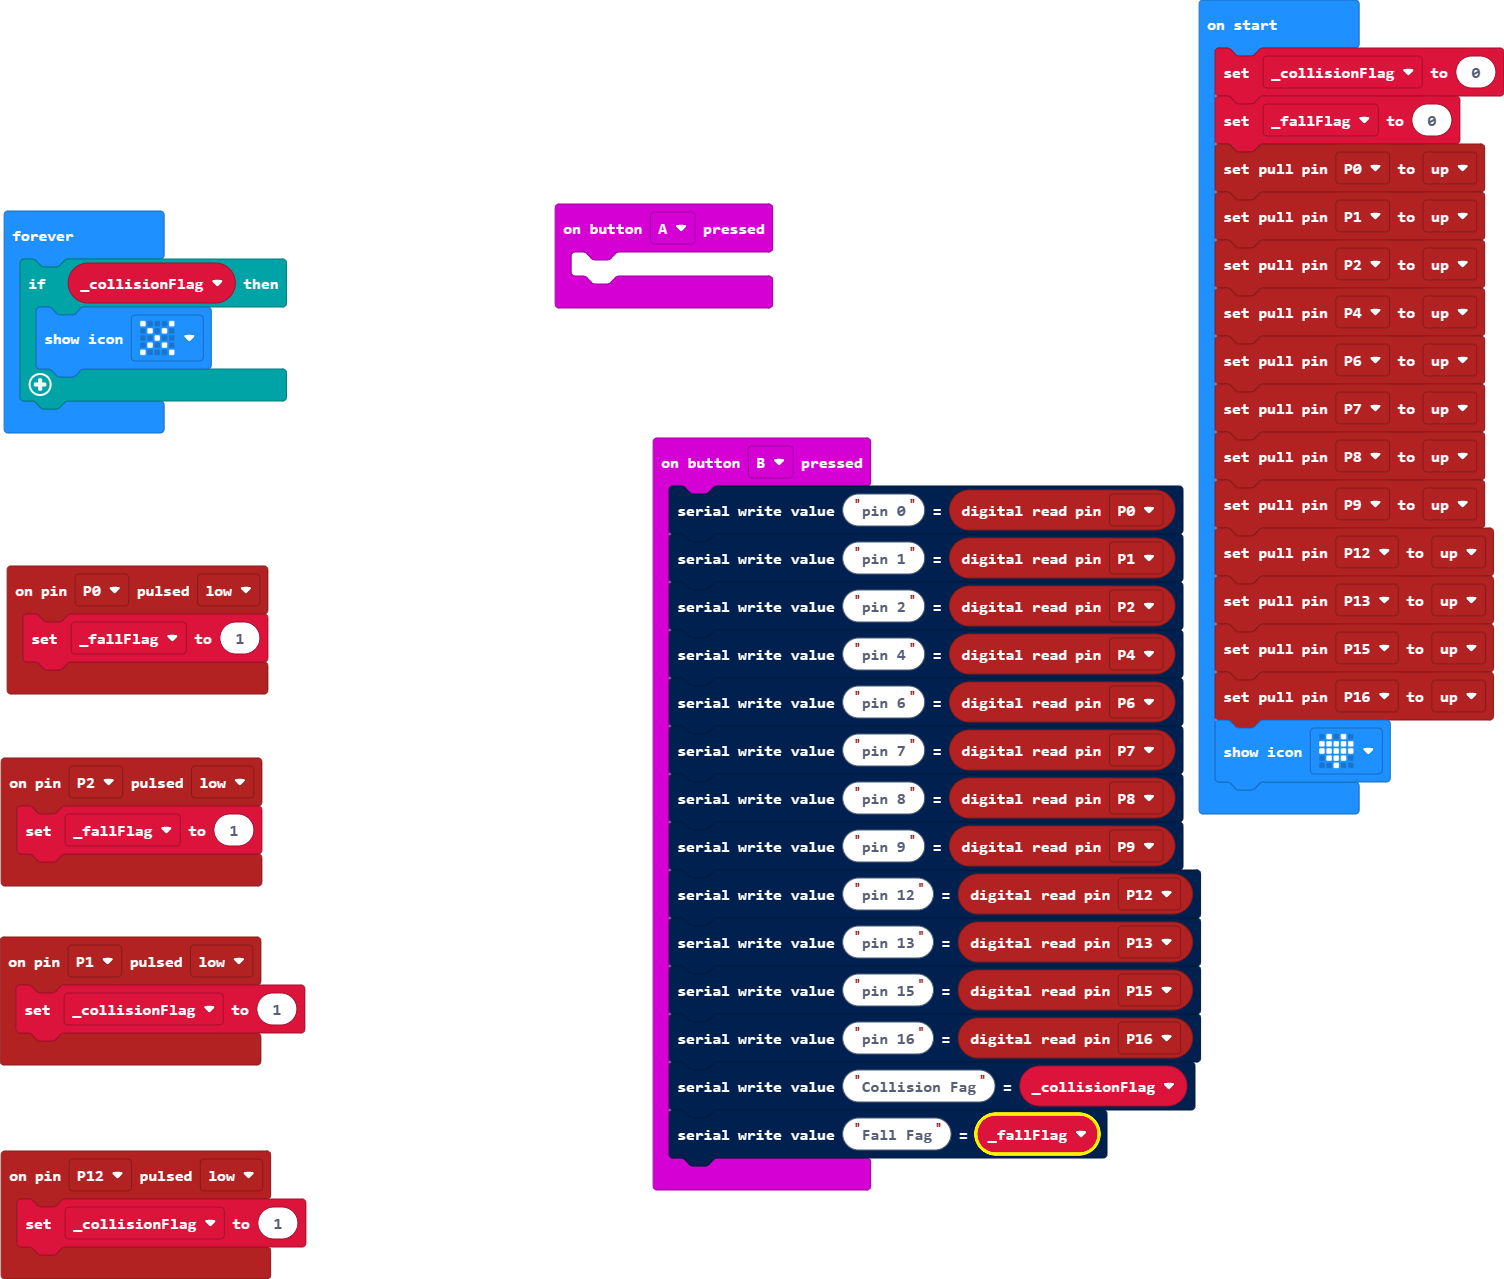
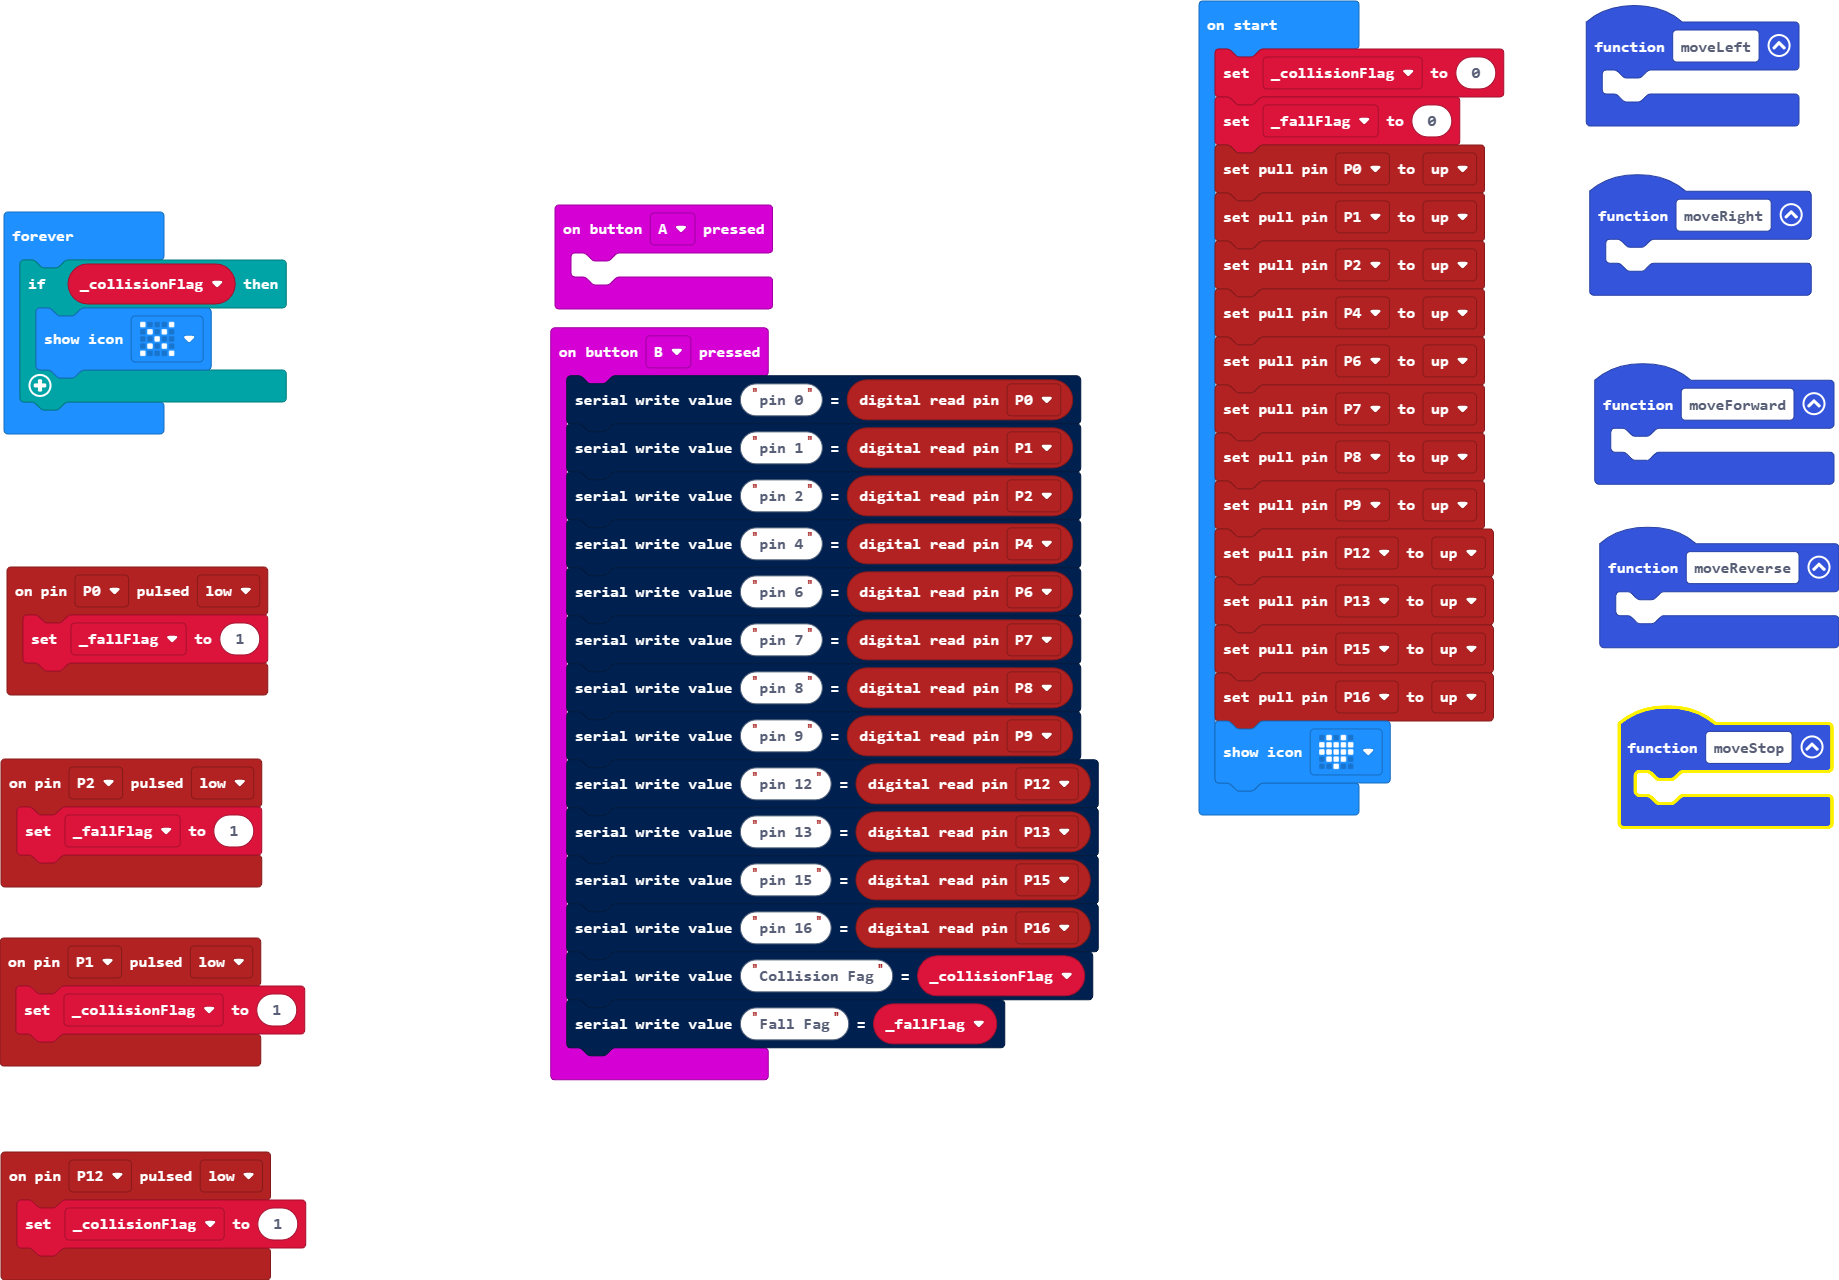
Update main.blocks, main.ts

diff --git a/main.ts b/main.ts
@@ -1,3 +1,12 @@
+function moveReverse () {
+	
+}
+function moveRight () {
+	
+}
+function moveForward () {
+	
+}
 input.onButtonPressed(Button.A, function () {
 	
 })
@@ -7,6 +16,9 @@ pins.onPulsed(DigitalPin.P0, PulseValue.Low, function () {
 pins.onPulsed(DigitalPin.P2, PulseValue.Low, function () {
     _fallFlag = 1
 })
+function moveStop () {
+	
+}
 pins.onPulsed(DigitalPin.P1, PulseValue.Low, function () {
     _collisionFlag = 1
 })
@@ -29,6 +41,9 @@ input.onButtonPressed(Button.B, function () {
 pins.onPulsed(DigitalPin.P12, PulseValue.Low, function () {
     _collisionFlag = 1
 })
+function moveLeft () {
+	
+}
 let _fallFlag = 0
 let _collisionFlag = 0
 _collisionFlag = 0
